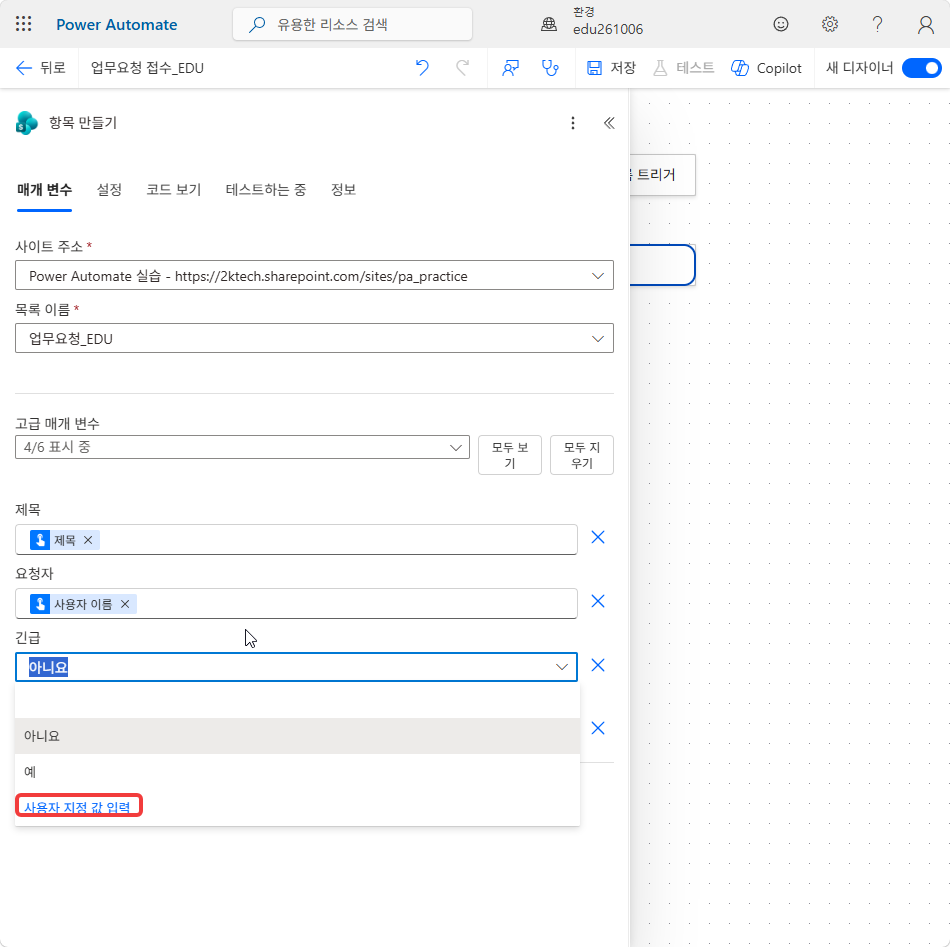
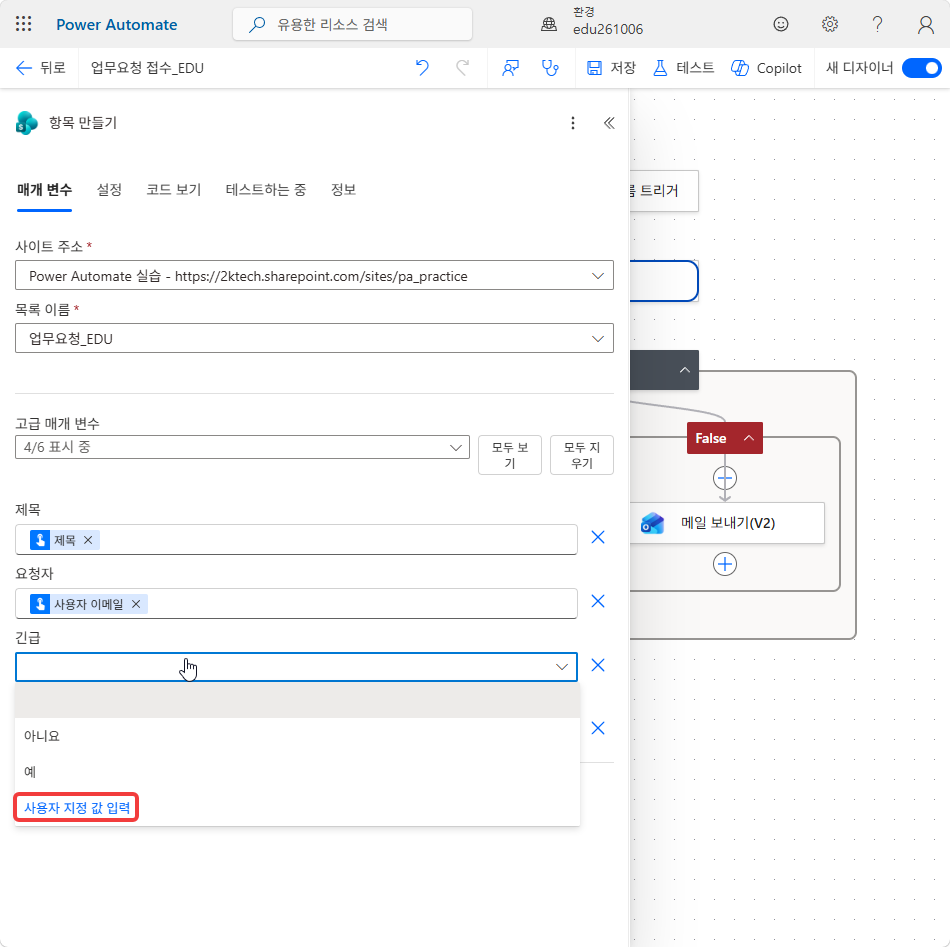
docs: Lab 1 20~22번 재촬영과 40번 실행 기록 반영
요청자를 사용자 이메일로 다시 찍은 컷으로 바꾸고, 40번 완료 기준을 맨 위 두 건 기준으로 고친다.

diff --git a/docs/lab1.md b/docs/lab1.md
@@ -42,7 +42,7 @@ nav_order: 2
            **사용자 이름(인코딩됨)** 은 base64 그대로 `6rWQ7Jyh`(「교육」)가 들어간다. 제작자 결정으로 **사용자 이메일**로 바꿨다.
            두 출력을 설명한 Learn 문서는 찾지 못했다 — 헤더로 넘어오며 깨진다는 것은 추정이다.
            디코딩은 `base64ToString()` (문서상 `decodeBase64()` 는 deprecated). 디자이너가 base64 함수를 숨길 수 있다는 공식 주의가 있다[^expr]
-           ⚠ 21·21b·22번 컷 배경의 요청자 칸에 「사용자 이름」 칩이 보인다. 20번 재촬영 때 같이 다시 찍을지 제작자 판단
+           20~22번은 사용자 이메일로 다시 찍었다(2026-10-05). 39번은 ?? 컷이라 아직 붙이지 않았다
          · ✔ 34~38번 실측. Teams 흐름 봇 메시지의 보낸 사람은 **워크플로**. 실행 화면에서 디자이너로는 **편집**. 26번에서 생긴 빈 조건 줄은 실행에 영향 없음
          · ✔ 16~19번 실측(2026-10-05). 목록을 고르면 고급 매개 변수 1/6 · 긴급만 보인다. 제목도 필수로 나오지 않아 드롭다운에서 제목·요청자·마감일을 체크한다.
            동적 콘텐츠는 트리거 출력 일부만 보여 **더 보기**를 눌러야 제목이 나온다. 초안 20번(모두 표시)을 19번에 합치고 20~22번을 요청자 · 긴급 · 마감일로 나눴다
@@ -269,7 +269,7 @@ nav_order: 2
 
     바로 아래 **사용자 이름**은 고르지 않습니다. 한글 이름이 목록에 `??` 로 저장됩니다.
 
-    ![촬영: 동적 콘텐츠 목록에서 사용자 이메일을 고르는 화면](../assets/lab1/lab1-20.png)
+    ![동적 콘텐츠 목록의 사용자 이메일 — 아래에 사용자 이름 · 사용자 이름(인코딩됨)](../assets/lab1/lab1-20.png)
 
 21. **긴급** 드롭다운을 열고 맨 아래 **사용자 지정 값 입력**을 고릅니다.
 
@@ -490,9 +490,9 @@ nav_order: 2
 
 40. 디자이너 왼쪽 위 **←**(뒤로)를 눌러 흐름 세부 정보 페이지로 갑니다. **28일 실행 기록**을 확인합니다.
 
-    **완료 기준**: 실행 두 건이 모두 성공이다.
+    **완료 기준**: **28일 실행 기록** 맨 위 두 건이 **테스트 성공**이다. 테스트를 더 돌렸다면 그 아래에 기록이 더 쌓여 있다.
 
-    ![촬영: 성공 두 건이 보이는 28일 실행 기록](../assets/lab1/lab1-40.png)
+    ![흐름 세부 정보 페이지의 28일 실행 기록 — 테스트 성공](../assets/lab1/lab1-40.png)
 {: start="34" }
 
 ## 단계 ⑥ 예약 트리거와 식
